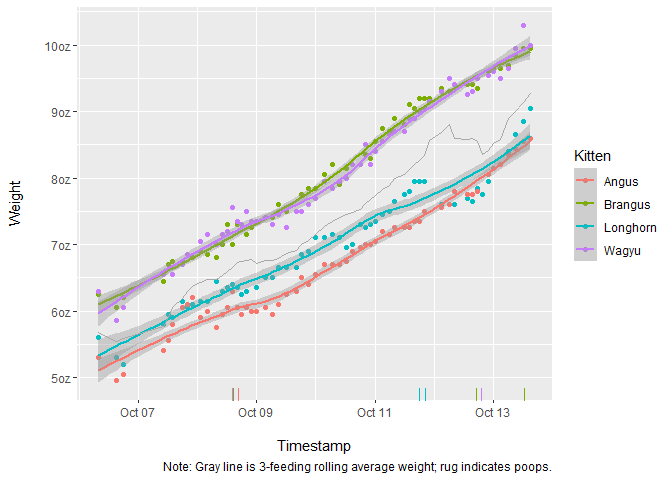
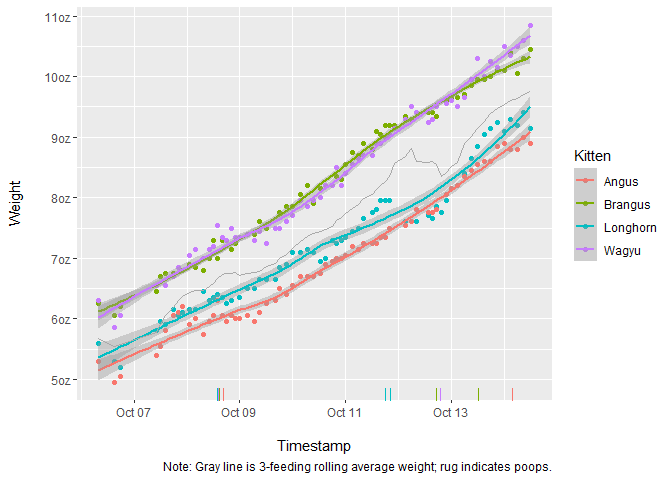
Feeding update

diff --git a/readme.md b/readme.md
@@ -44,7 +44,7 @@ Current Avg. Weight
 
 <td style="text-align:left;">
 
-9.47oz
+9.93oz
 
 </td>
 
@@ -60,7 +60,7 @@ Avg. Std. Deviation Between Kitten Weights
 
 <td style="text-align:left;">
 
-0.69oz
+0.7oz
 
 </td>
 
@@ -92,7 +92,7 @@ Avg. Gain per Day per Kitty
 
 <td style="text-align:left;">
 
-0.48oz
+0.49oz
 
 </td>
 
@@ -108,7 +108,7 @@ Avg. Time Between Feedings
 
 <td style="text-align:left;">
 
-2H 48M
+2H 49M
 
 </td>
 
@@ -124,7 +124,7 @@ Expected Avg. Weight at 3 Years of Age
 
 <td style="text-align:left;">
 
-34lb 10oz
+35lb 14oz
 
 </td>
 
